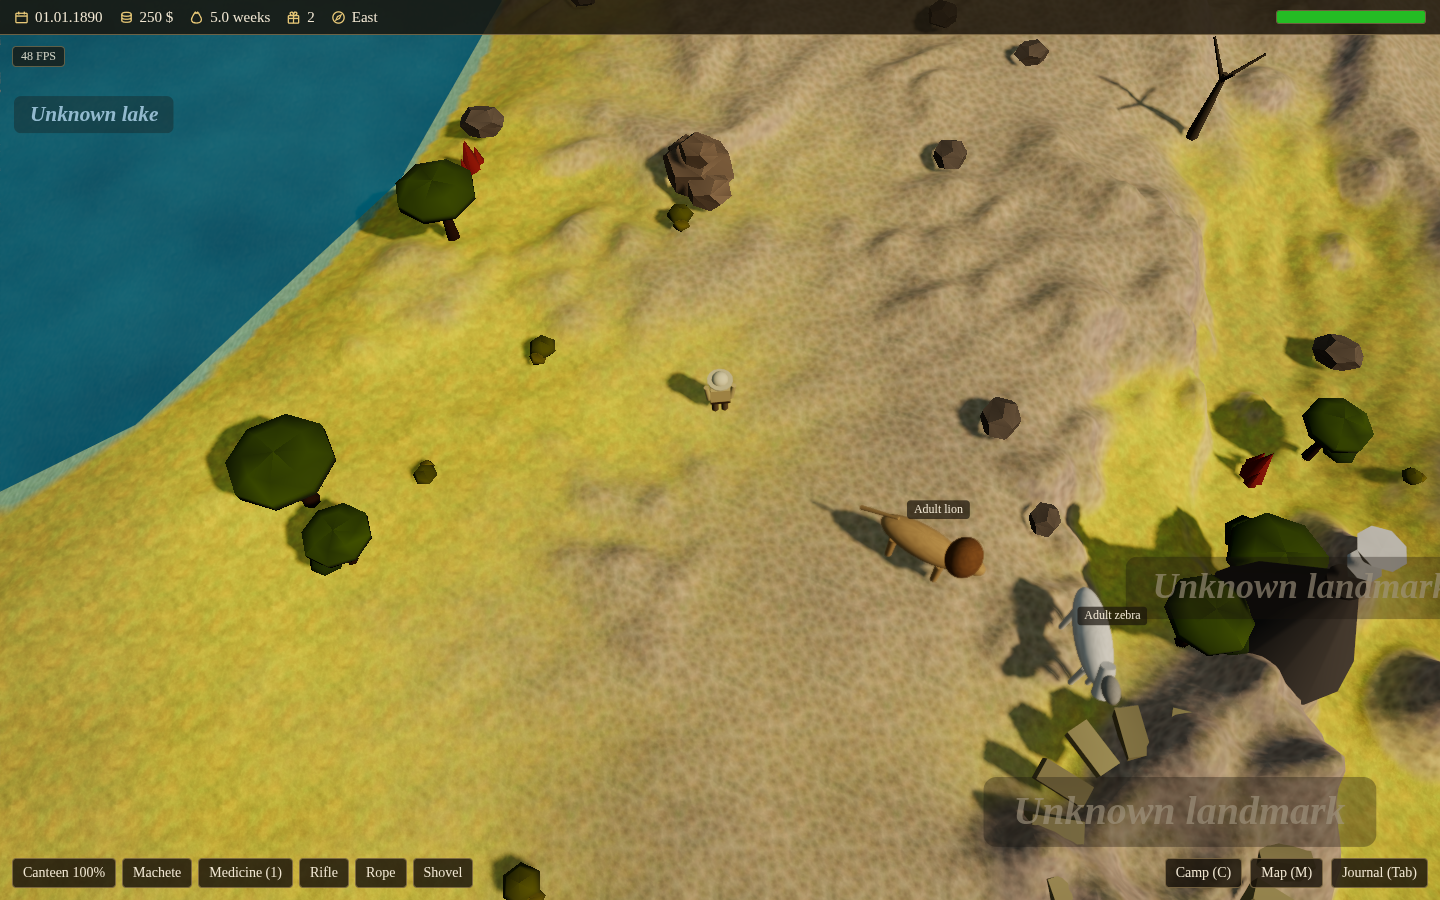
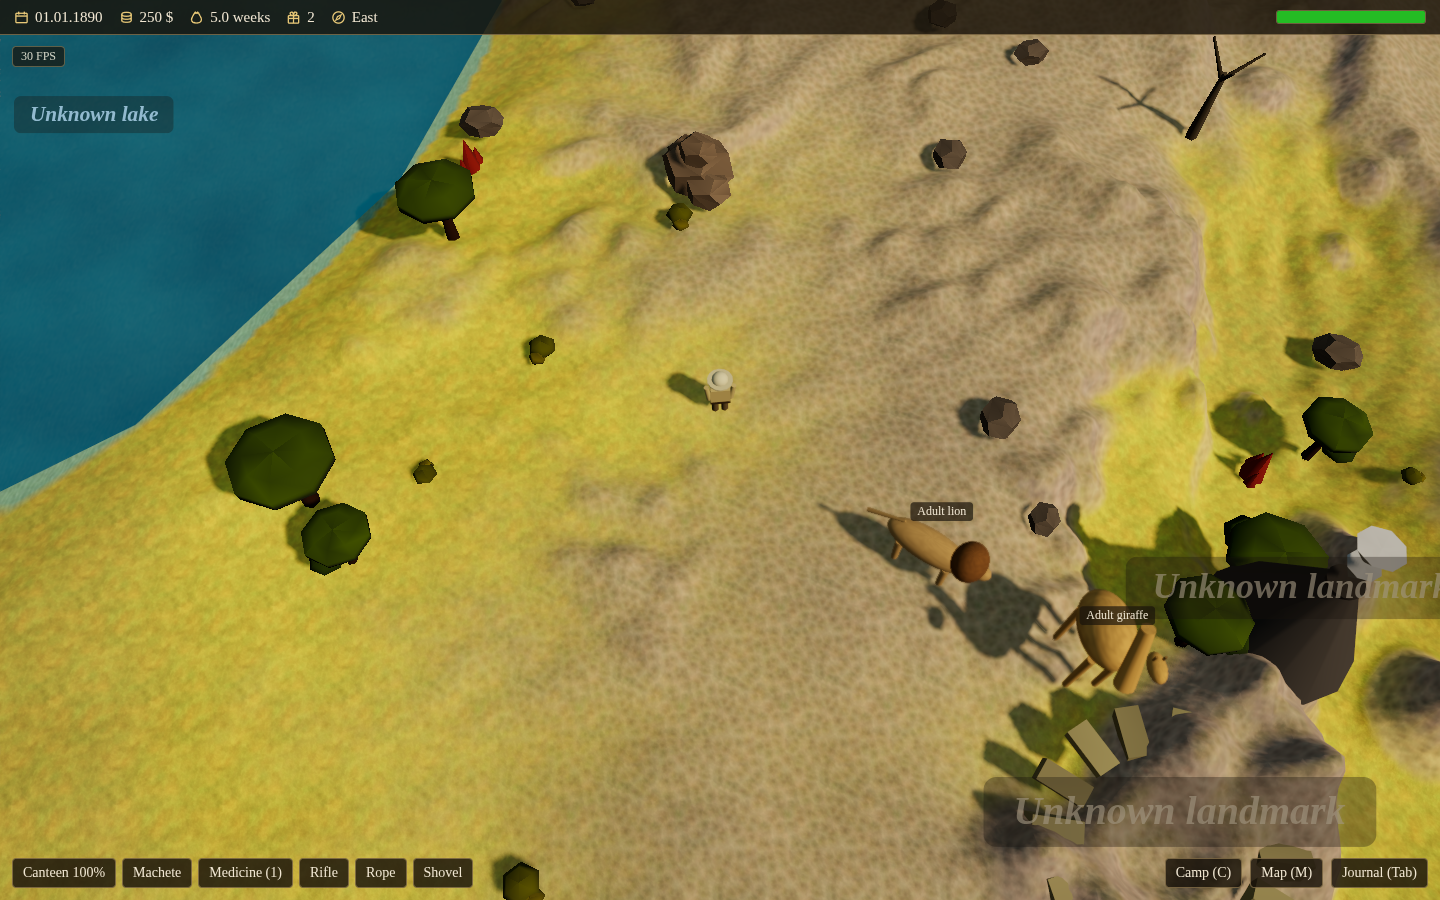
Cross-check the drawn scene against the label layer's actor set
Both halves of the hold-Ctrl verification asked the layer what it named.
Neither asked the SCENE what it drew — which is why an attacking predator
drawn from a list no source walked passed every check that existed.

The bird's-eye section now reads the herds' own draw stamps and the
hunt's two groups in one synchronous block with the raw candidate set:
every animal the current pass drew and the camera really shows must be
offered to the layer, in whatever state it is in. The settlement section
takes the figures' own scene-graph name — an independent handle on the
people PlaceLife draws — and demands a mark and a candidate for each,
then walks them: a figure that has moved must be named where it now
stands, not where it was born.

Changed region(s): [[0.5625, 0.56, 0.8125, 0.7778]]

diff --git a/docs/acceptance-evidence.md b/docs/acceptance-evidence.md
@@ -296,7 +296,21 @@ while the attack runs, the label really stands in the frame, the fleeing
 prey is named too, and the attacker's own pre-predicate record is not
 concealed — `scripts/verify/enrichments.mjs`
 (`--section=ctrl-labels-attacking-predator`,
-`600-ctrl-label-attacking-predator.png`).
+`600-ctrl-label-attacking-predator.png`). The settlement half of the
+roster and its reachability: every role, kept animal and usable object
+named while standing, walking, gesturing, kneeling, carrying, drawn
+small and deep under the settlement group, in both languages, the
+switched-off figure the one silence — and every kind of the roster
+traced to a scene that really draws it (a herd, a flock, the hunt, a
+`markActor` site, a `Figure` role or the Giza anchors), leaving the
+elder the single documented exception, since he carries his own
+standing label (`src/scenes/actorLabelRoster.test.ts`). Live: nothing
+DRAWN is invisible to the layer — every animal stamped by the current
+draw pass and standing in the picture, and the hunt's own two figures,
+reach the raw candidate set (`scripts/verify/enrichments.mjs`), and
+every inhabitant figure the settlement draws carries its mark, is
+offered, and is still named where it now stands after it has walked
+(`scripts/verify/polish.mjs`).
 
 ## 10. Goal scaffolding.
 
